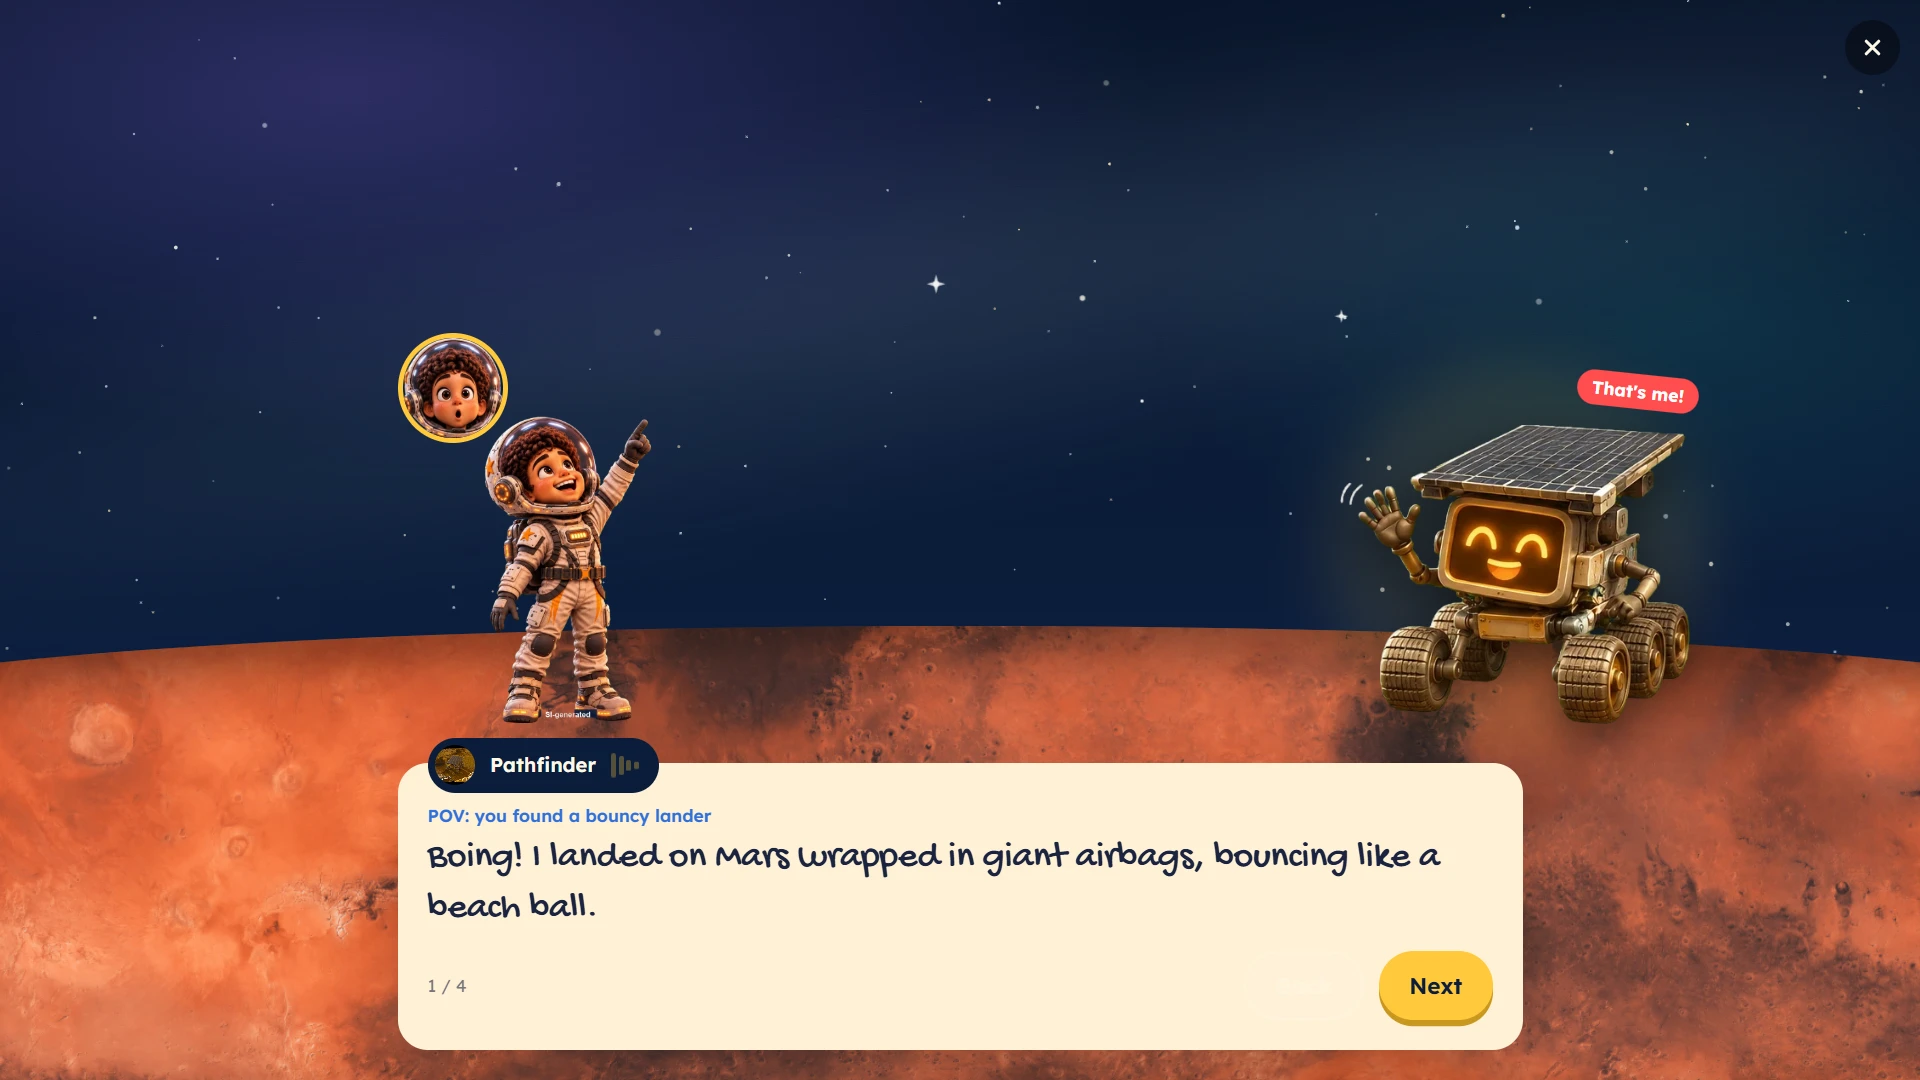
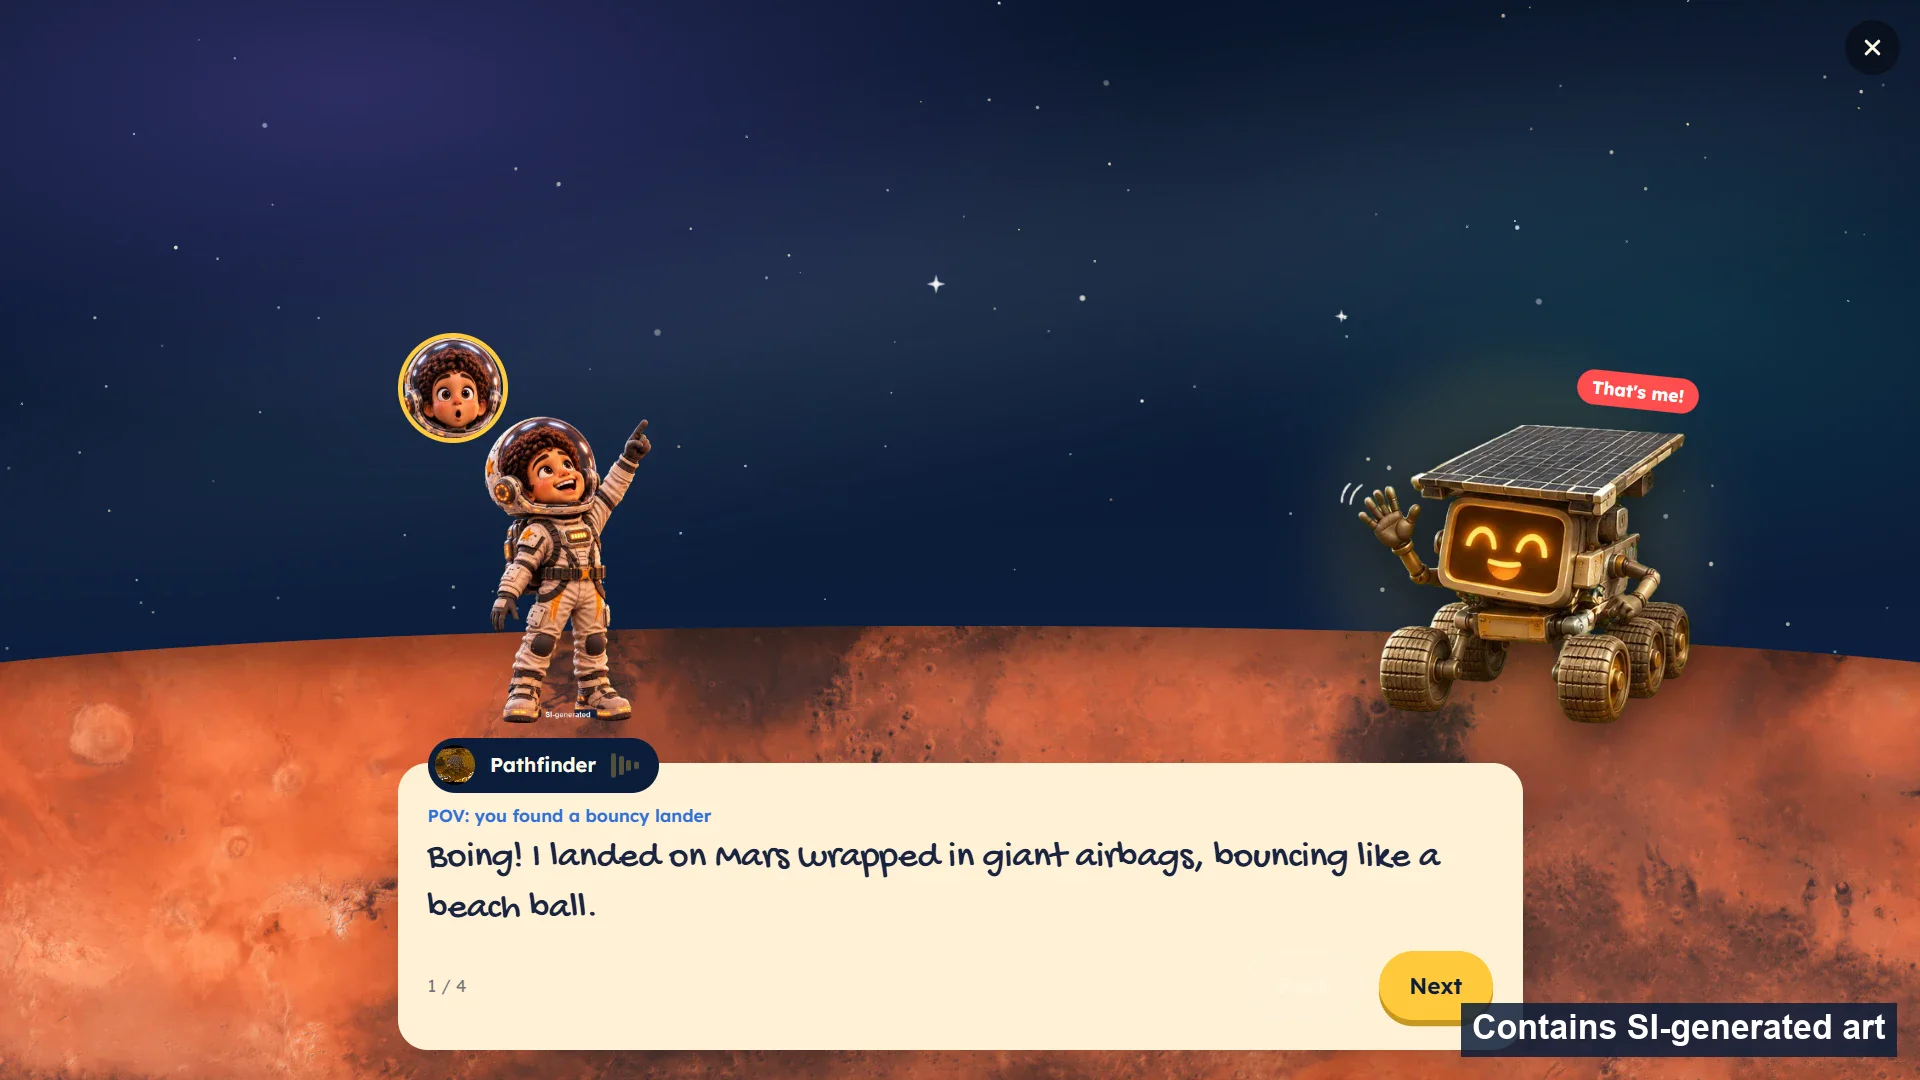
docs(readme): label SI-generated art in screenshots, swap old Eagle card
Screenshots that show the kid, the device characters or the cards now
carry a 'Contains SI-generated art' label. The card shot used the old
Eagle card with a NASA logo; it now shows the new Kepler card.

Changed region(s): [[0.75, 0.9167, 1.0, 0.9778]]

diff --git a/README.md b/README.md
@@ -43,7 +43,7 @@ Built by **Team AstroPy** for the NASA Space Apps Challenge 2026 (Cairo), challe
     <td><img src="docs/screenshots/quiz.webp" alt="Fact or Cap? Surveyor says: I landed on the Moon before any human." /><br><b>8. Fact or Cap?</b> Swipe or tap to answer</td>
   </tr>
   <tr>
-    <td><img src="docs/screenshots/card.webp" alt="You earned Eagle's card!" /><br><b>9. Earn its card</b>, never by luck</td>
+    <td><img src="docs/screenshots/card.webp" alt="You earned Kepler's card!" /><br><b>9. Earn its card</b>, never by luck</td>
     <td><img src="docs/screenshots/profile-3d.webp" alt="Eagle's profile with stats, a 3D model and a QR code for AR" /><br><b>10. Profile</b> with NASA photos, facts, 3D and AR</td>
   </tr>
 </table>
